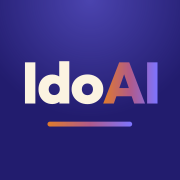
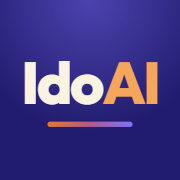
Update idoai design

diff --git a/style.css b/style.css
@@ -288,7 +288,7 @@ a:hover {
     letter-spacing: -0.02em;
 }
 
-/* Wordmark in the favicon's design: cream "Ido", gradient "AI", short signature-gradient bar */
+/* Wordmark in the favicon's design: cream "Ido", orange "AI", short signature-gradient bar */
 .brand-title.brand-wordmark {
     position: relative;
     display: inline-block;
@@ -311,7 +311,7 @@ a:hover {
     transform: translateX(-50%);
 }
 
-/* Header wordmark drops the bar; "AI" wears the hero's orange → indigo blend everywhere (below) */
+/* Header wordmark drops the bar */
 .site-header .brand-wordmark::after {
     content: none;
 }
@@ -324,16 +324,6 @@ a:hover {
 
 .site-header .brand-subtitle {
     margin-top: 0.3rem;
-}
-
-@supports ((-webkit-background-clip: text) or (background-clip: text)) {
-    .brand-wordmark .brand-ai {
-        background: var(--signature-gradient);
-        -webkit-background-clip: text;
-        background-clip: text;
-        color: transparent;
-        padding-right: 0.04em;
-    }
 }
 
 .brand-subtitle {

diff --git a/sw.js b/sw.js
@@ -4,7 +4,7 @@
    Images and fonts: served from the cache straight away and refreshed in the background.
    Bump CACHE_VERSION to drop everything cached by an older version.
    ========================================================================== */
-const CACHE_VERSION = 'idoai-v6';
+const CACHE_VERSION = 'idoai-v7';
 
 const CORE_FILES = [
     './',
